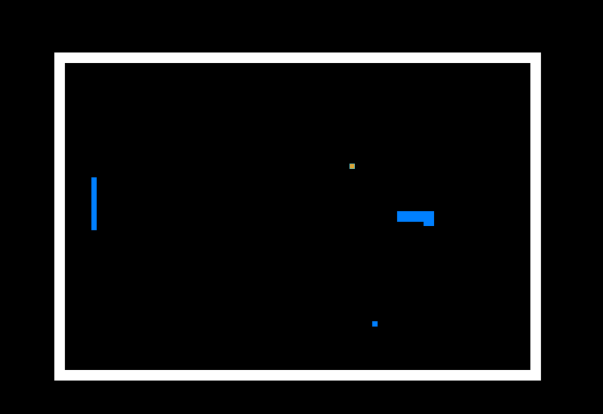
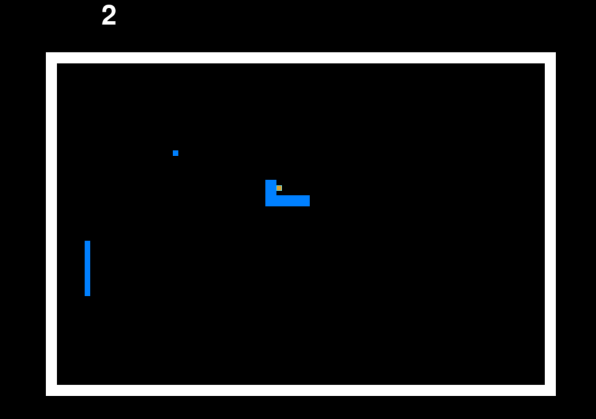
scoreboard implementation

diff --git a/src/entities.py b/src/entities.py
@@ -24,7 +24,7 @@ pygame.init()
 class Snake:
     def __init__(self, surface, running):
         self.__positions = [(600, 400)]
-        self.__length = 10
+        self.__length = 15
         self.__direction = random.choice([(0, 1), (0, -1), (-1, 0), (1, 0)])
         self.__update_screen()
         self.__surface = surface
@@ -102,6 +102,7 @@ class Snake:
 
 class Ball:
     def __init__(self, surface):
+        self.__score = 0
         self.__surface = surface
         self.__position = [(400, 400)]
         self.__set_velocity()
@@ -119,6 +120,7 @@ class Ball:
         if newPos[0] < 180:
             self.__velocity[0] = -self.__velocity[0]
             self.__move_ball()
+            self.__score += 1
         elif newPos[0] > 1030:
             self.__velocity[0] = -self.__velocity[0]
             self.__move_ball()
@@ -133,6 +135,10 @@ class Ball:
         if len(self.__position) > 1:
             self.__position.pop()
         self.__ball = pygame.Rect(self.get_current_position()[0], self.get_current_position()[1], 10, 10)
+
+        font = pygame.font.Font(None, 74)
+        text = font.render(str(self.__score), 1, (255,255,255))
+        self.__surface.blit(text, (250,10))
 
     def __draw_ball(self):
         self.__image = pygame.draw.rect(self.__surface, (0, 128, 255), self.__ball)
@@ -211,3 +217,12 @@ class Food:
 
     def get_food_location(self):
         return self.__position
+
+    class Scoreboard:
+        def __init__(self):
+            self.__score = 0
+
+        def score(self):
+            if Ball.get_current_position[0]>=700:
+                self.__score += 1
+
